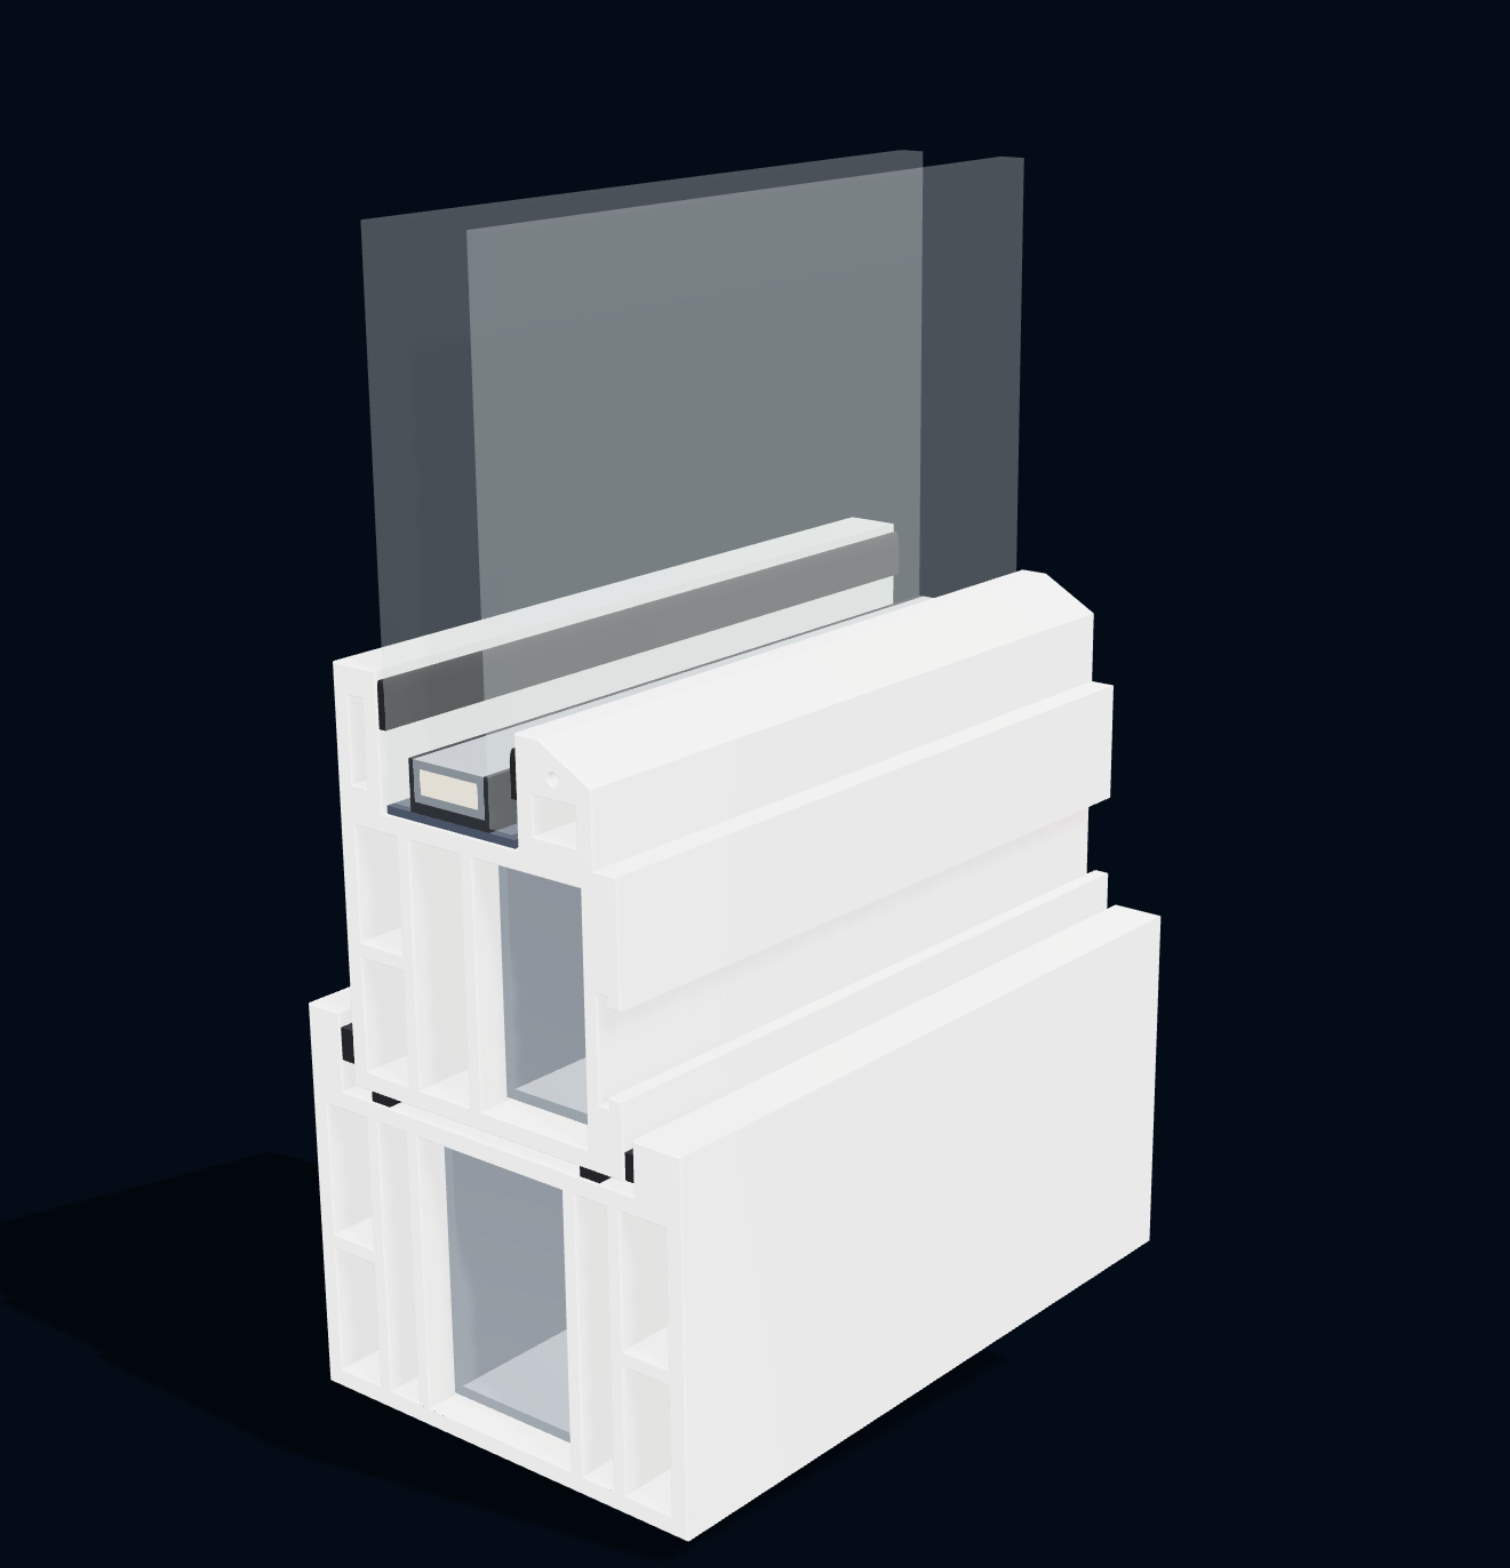
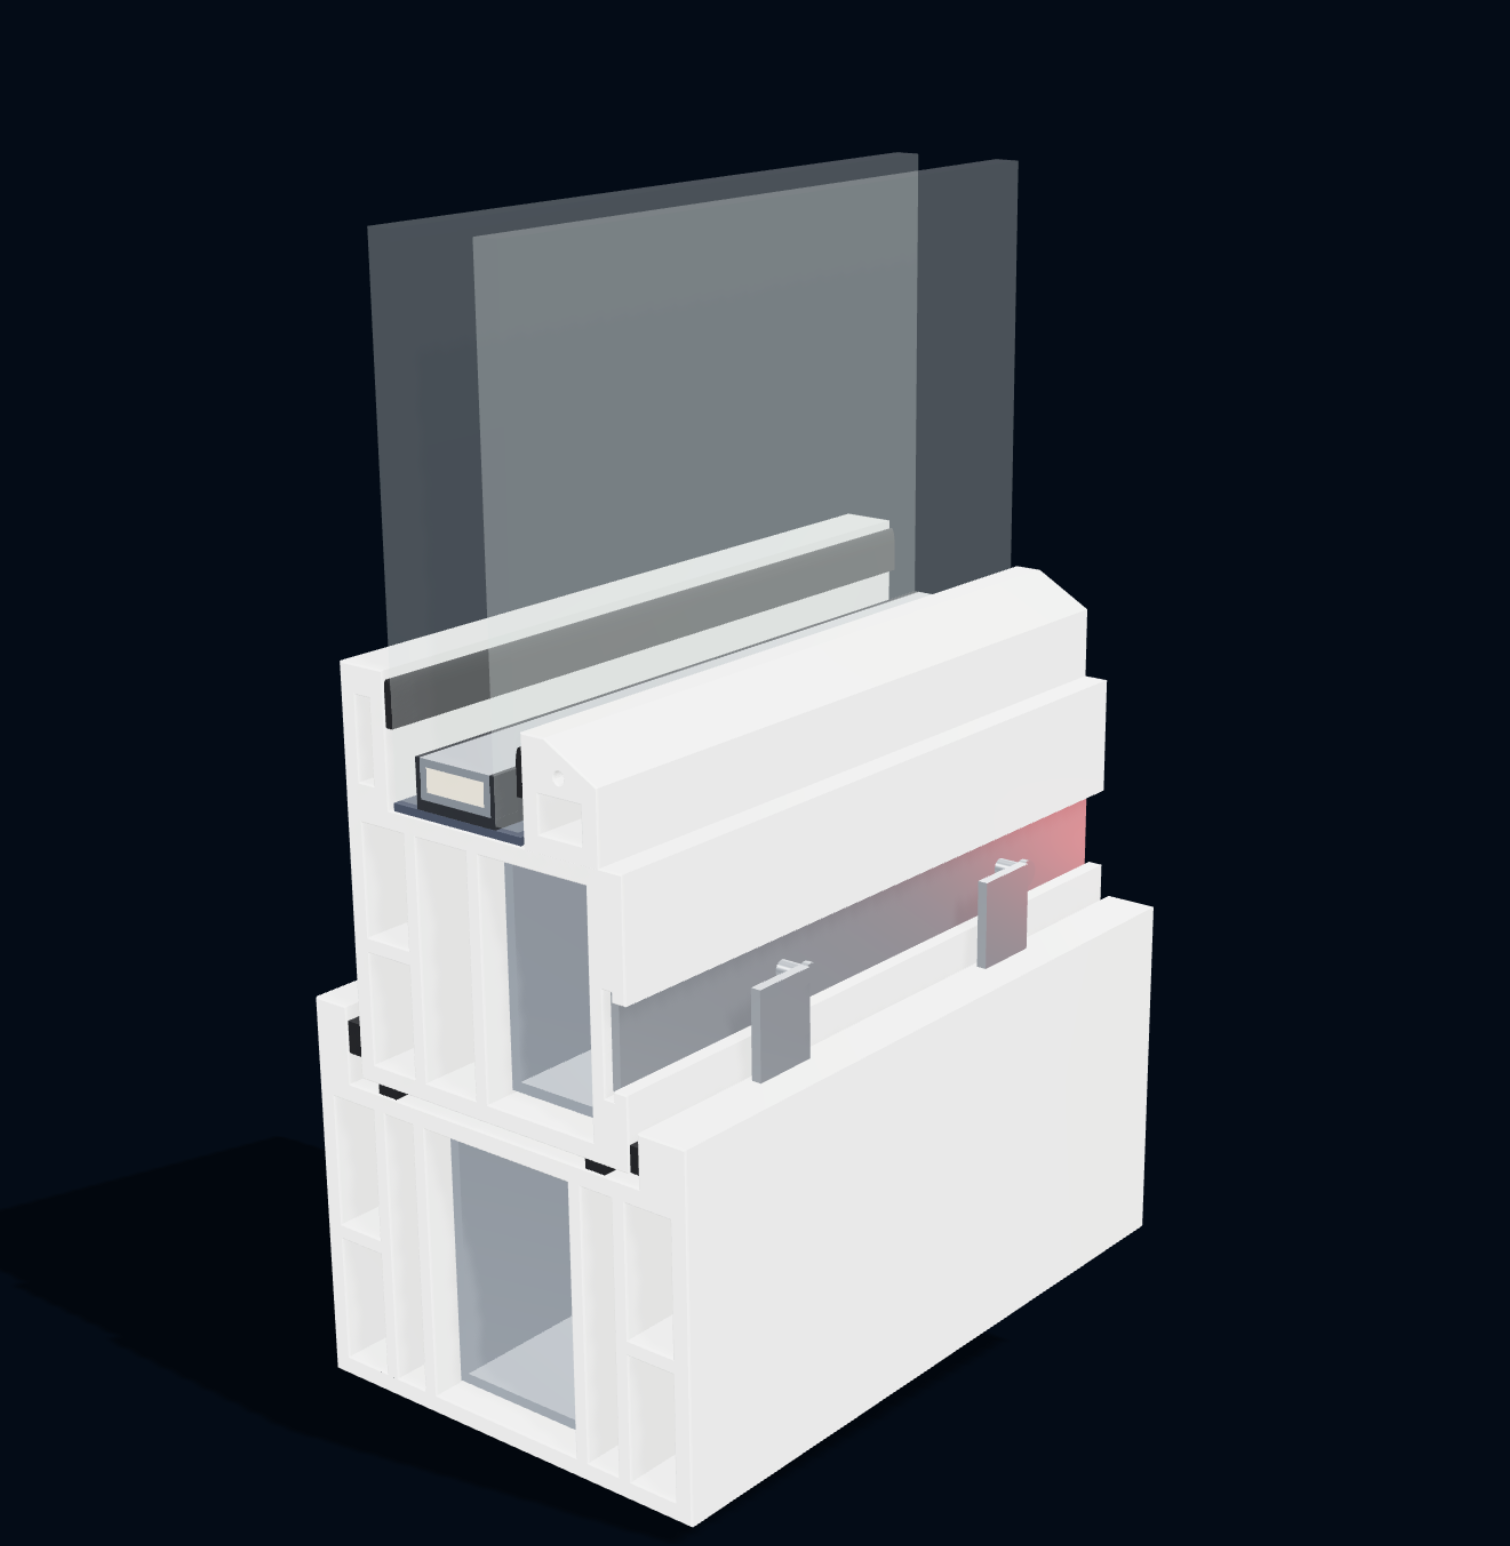
Add multi-point locking to the 3D profile
- Espagnolette rod in the sash groove, locking cams and frame keepers;
  a new fifth step slides the cams into the keepers and turns them red.
- Screws fixing the steel reinforcement.
- Inactive part descriptions now collapse (a utility class was keeping
  them full height), so all five steps fit on screen.
- The active profile turns fully red; new poster still.

diff --git a/src/components/three/ProfileScene.tsx b/src/components/three/ProfileScene.tsx
@@ -174,6 +174,8 @@ function useShapes() {
       frame,
       sash,
       bead,
+      // Espagnolette drive rod running inside the sash's hardware groove.
+      rod: rectShape([56.4, 60.4, 57.8, 74.6]),
       steelFrame: channel([22.6, 4.1, 47.4, 43.9]),
       steelSash: channel([35.4, 54, 52.6, 88]),
       paneOut: rectShape([18.4, 94, 22.6, 172]),
@@ -204,6 +206,39 @@ const BLACK = new THREE.Color("#121316");
 const GLASS = new THREE.Color("#cfe6df");
 const RED = new THREE.Color("#d71920");
 const DEEP_RED = new THREE.Color("#5a0408");
+const METAL = new THREE.Color("#b9c0c8");
+
+// Locking points along the slice (world z), and screws fixing the steel.
+const CAMS = [-0.32, 0.22];
+const SCREWS = [-0.42, 0, 0.42];
+
+/** Espagnolette cams on the sash and their keepers on the frame. */
+function LockHardware({ material, cams }: { material: THREE.Material; cams: React.Ref<THREE.Group> }) {
+  const camGeo = useMemo(() => new THREE.CylinderGeometry(1.4 * S, 1.4 * S, 5.8 * S, 20).rotateZ(Math.PI / 2), []);
+  const headGeo = useMemo(() => new THREE.CylinderGeometry(2.1 * S, 2.1 * S, 1.2 * S, 24).rotateZ(Math.PI / 2), []);
+  const keeperGeo = useMemo(() => new THREE.BoxGeometry(1.6 * S, 14 * S, 0.11), []);
+  return (
+    <>
+      <group ref={cams}>
+        {CAMS.map((z) => (
+          <group key={z} position={[0, Y(67.5), z]}>
+            <mesh geometry={camGeo} material={material} position={[X(59.7), 0, 0]} castShadow />
+            <mesh geometry={headGeo} material={material} position={[X(62.4), 0, 0]} castShadow />
+          </group>
+        ))}
+      </group>
+      {CAMS.map((z) => (
+        <mesh key={z} geometry={keeperGeo} material={material} position={[X(63.6), Y(63), z + 0.075]} castShadow receiveShadow />
+      ))}
+    </>
+  );
+}
+
+/** Screws fixing the steel reinforcement through the frame wall. */
+function Screws({ material }: { material: THREE.Material }) {
+  const geo = useMemo(() => new THREE.CylinderGeometry(0.9 * S, 0.9 * S, 7 * S, 12), []);
+  return SCREWS.map((z) => <mesh key={z} geometry={geo} material={material} position={[X(35), Y(46), z]} />);
+}
 
 function Profile({ stateRef }: { stateRef: React.RefObject<ProfileState> }) {
   const group = useRef<THREE.Group>(null);
@@ -212,6 +247,7 @@ function Profile({ stateRef }: { stateRef: React.RefObject<ProfileState> }) {
   const unitOut = useRef<THREE.Group>(null);
   const unitIn = useRef<THREE.Group>(null);
   const gaskets = useRef<THREE.Group>(null);
+  const cams = useRef<THREE.Group>(null);
   const shapes = useShapes();
 
   const mats = useMemo(
@@ -232,26 +268,30 @@ function Profile({ stateRef }: { stateRef: React.RefObject<ProfileState> }) {
       desiccant: new THREE.MeshStandardMaterial({ color: "#d8cdb4", roughness: 0.95 }),
       seal: new THREE.MeshStandardMaterial({ color: "#26292e", roughness: 0.7 }),
       block: new THREE.MeshStandardMaterial({ color: "#3b4250", roughness: 0.8 }),
+      hardware: new THREE.MeshStandardMaterial({ color: "#b9c0c8", metalness: 0.85, roughness: 0.28 }),
+      screw: new THREE.MeshStandardMaterial({ color: "#6c7480", metalness: 0.9, roughness: 0.35 }),
     }),
     [],
   );
 
-  const v = useRef({ rotY: -0.95, rotX: 0.32, steel: 0, ghost: 1, gasket: 0, explode: 0, hlProfile: 0, hlGlass: 0 }).current;
+  const v = useRef({ rotY: -0.95, rotX: 0.32, steel: 0, ghost: 1, gasket: 0, explode: 0, hlProfile: 0, hlGlass: 0, lock: 0 }).current;
 
   useFrame((frame, delta) => {
     const step = stateRef.current.step;
     const k = 1 - Math.pow(0.0015, delta); // frame-rate independent easing
     // Each step turns the cut face toward the camera at its own angle.
     const target = {
-      rotY: [-0.62, -0.2, -0.95, -0.3, -0.45][step] ?? -0.5,
-      rotX: [0.26, 0.08, 0.3, 0.1, 0.18][step] ?? 0.2,
+      rotY: [-0.62, -0.2, -0.95, -0.3, -0.45, -1.15][step] ?? -0.5,
+      rotX: [0.26, 0.08, 0.3, 0.1, 0.18, 0.14][step] ?? 0.2,
       steel: step === 2 ? 1 : 0,
-      ghost: step === 2 || step === 3 ? 0.35 : 1,
+      ghost: step === 2 || step === 3 ? 0.35 : step === 5 ? 0.6 : 1,
       gasket: step === 3 ? 1 : 0,
       explode: step === 4 ? 1 : 0,
       // Red marks the part being explained: profile, steel core, gaskets, glass.
       hlProfile: step === 1 ? 1 : 0,
       hlGlass: step === 4 ? 1 : 0,
+      // Locking: the hardware turns red and the cams slide into their keepers.
+      lock: step === 5 ? 1 : 0,
     };
     for (const key of Object.keys(target) as (keyof typeof target)[]) v[key] += (target[key] - v[key]) * k;
 
@@ -266,7 +306,7 @@ function Profile({ stateRef }: { stateRef: React.RefObject<ProfileState> }) {
     if (steelB.current) steelB.current.position.z = v.steel * 0.42;
     mats.upvc.opacity = v.ghost;
     mats.upvc.depthWrite = v.ghost > 0.95;
-    mats.upvc.color.lerpColors(WHITE, RED, v.hlProfile * 0.8);
+    mats.upvc.color.lerpColors(WHITE, RED, v.hlProfile);
     mats.steel.color.lerpColors(STEEL, RED, v.steel);
     mats.steel.emissive.lerpColors(BLACK, DEEP_RED, v.steel);
     mats.gasket.color.lerpColors(BLACK, RED, v.gasket);
@@ -274,6 +314,9 @@ function Profile({ stateRef }: { stateRef: React.RefObject<ProfileState> }) {
     mats.glass.color.lerpColors(GLASS, RED, v.hlGlass * 0.7);
     mats.glass.opacity = 0.32 + v.hlGlass * 0.28;
     if (gaskets.current) gaskets.current.scale.setScalar(1 + v.gasket * 0.06);
+    mats.hardware.color.lerpColors(METAL, RED, v.lock);
+    mats.hardware.emissive.lerpColors(BLACK, DEEP_RED, v.lock);
+    if (cams.current) cams.current.position.z = v.lock * 0.075;
     // The glass unit opens up: panes move apart, the spacer and seals stay between them.
     if (unitOut.current) unitOut.current.position.x = -v.explode * 0.16;
     if (unitIn.current) unitIn.current.position.x = v.explode * 0.16;
@@ -298,6 +341,9 @@ function Profile({ stateRef }: { stateRef: React.RefObject<ProfileState> }) {
       <Part shape={shapes.desiccant} material={mats.desiccant} bevel={false} />
       <Part shape={shapes.edgeSeal} material={mats.seal} bevel={false} />
       <Part shape={shapes.settingBlock} material={mats.block} bevel={false} />
+      <Part shape={shapes.rod} material={mats.hardware} depth={LENGTH * 0.98} bevel={false} />
+      <LockHardware material={mats.hardware} cams={cams} />
+      <Screws material={mats.screw} />
       <group ref={gaskets}>
         {shapes.gaskets.map((s, i) => (
           <Part key={i} shape={s} material={mats.gasket} bevel={false} />

diff --git a/src/components/three/ProfileAnatomy.tsx b/src/components/three/ProfileAnatomy.tsx
@@ -76,7 +76,7 @@ export function ProfileAnatomy() {
       ScrollTrigger.create({
         trigger: root.current,
         start: "top top",
-        end: "+=420%",
+        end: "+=520%",
         pin: true,
         anticipatePin: 1,
         onUpdate(self) {
@@ -114,7 +114,9 @@ export function ProfileAnatomy() {
                   </span>
                   <span className="min-w-0">
                     <span className="t-h3 block">{t(p.title)}</span>
-                    <span className="anatomy-part-text t-small block text-mist">{t(p.text)}</span>
+                    <span className="anatomy-part-text t-small text-mist">
+                      <span className="min-h-0">{t(p.text)}</span>
+                    </span>
                   </span>
                 </button>
               </li>

diff --git a/src/content/company.ts b/src/content/company.ts
@@ -223,6 +223,14 @@ export const anatomy = {
         "لوحان من الزجاج وفراغ محكم بينهما لعزل حراري وصوتي أفضل.",
       ),
     },
+    {
+      id: "lock",
+      title: t("Multi-point locking", "غلق متعدد النقاط"),
+      text: t(
+        "An espagnolette in the sash groove drives locking cams into keepers on the frame, holding the sash shut at several points.",
+        "سبليونة داخل مجرى الضلفة تُدخل نقاط الغلق في المقابلات المثبتة على الإطار، فتُحكم غلق الضلفة من أكثر من نقطة.",
+      ),
+    },
   ],
 };
 
